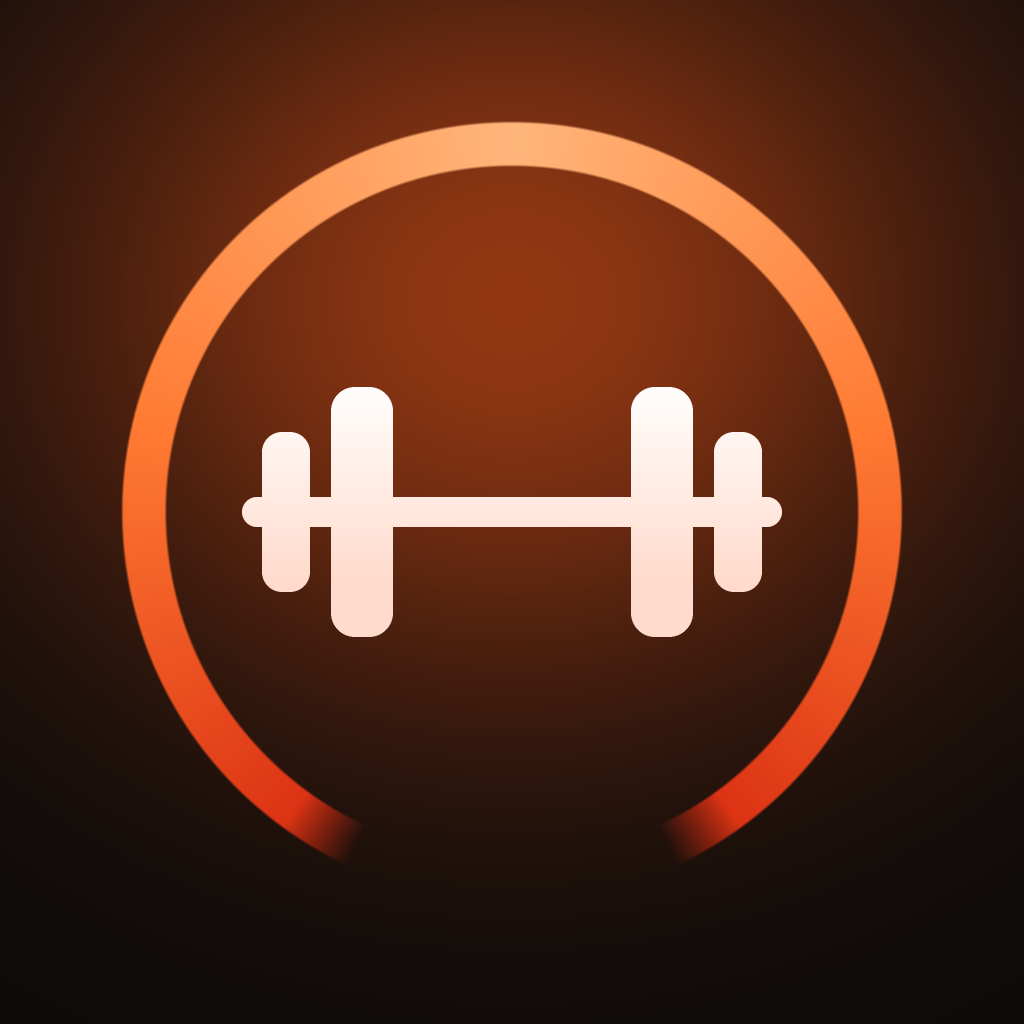
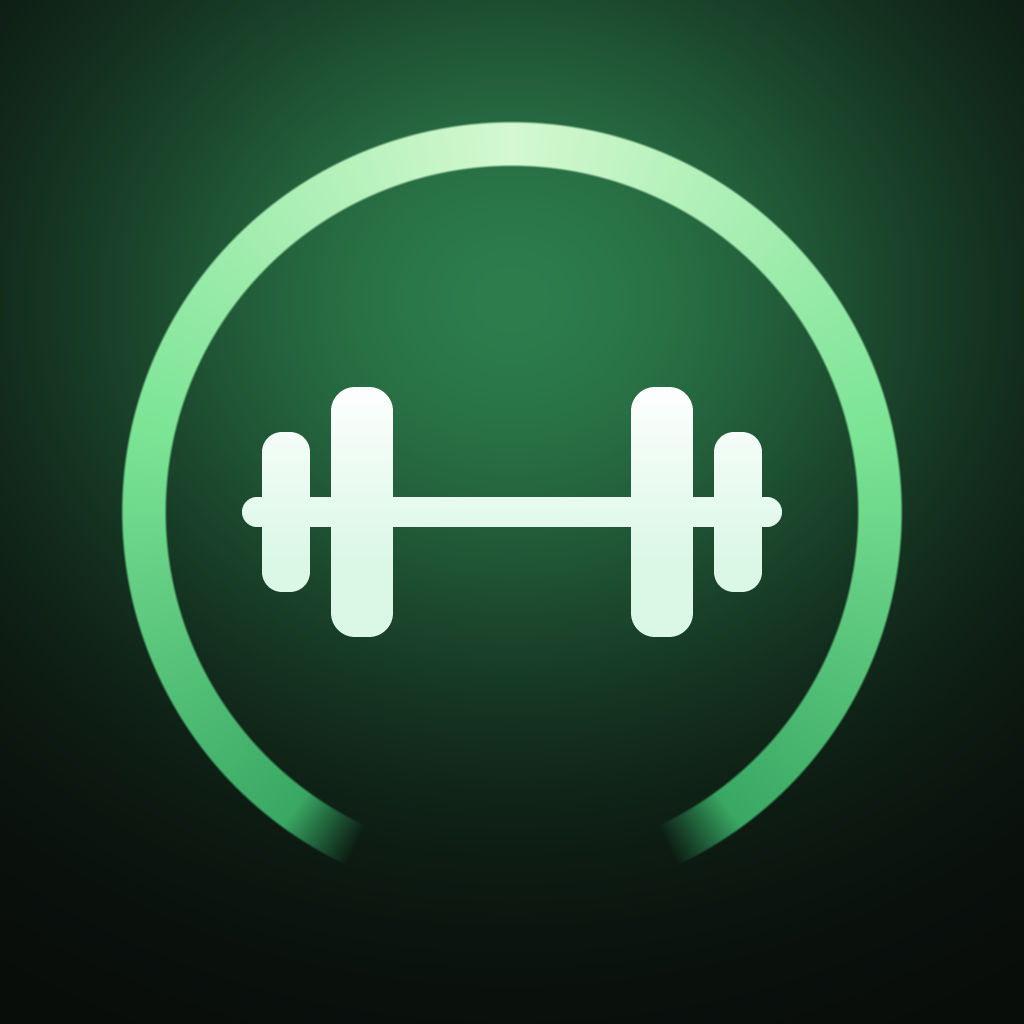
Palette verde chiaro: dalla brace alla linfa
Cambia l'identità visiva dell'app e dell'icona: accento verde chiaro su
fondo scuro al posto dell'arancione. Con il verde il nome "Ember" (brace) non
voleva più dire niente, quindi la direzione si chiama "Linfa" e il componente
dello sfondo diventa linfa-backdrop.

Il testo sull'accento passa da bianco a quasi nero: su un verde chiaro il
bianco non si legge. Il verde di conferma scende a un tono più profondo per
non confondersi con l'accento.

diff --git a/src/components/linfa-backdrop.tsx b/src/components/linfa-backdrop.tsx
@@ -8,7 +8,7 @@ import Svg, {
   Stop,
 } from 'react-native-svg';
 
-import { Ember } from '@/constants/theme';
+import { Linfa } from '@/constants/theme';
 
 /** Punto sulla circonferenza, con 0° in alto e angoli in senso orario. */
 function pointOnCircle(cx: number, cy: number, r: number, deg: number) {
@@ -35,7 +35,7 @@ type Props = {
  * piattaforme): il bagliore è costruito con tracciati sovrapposti a opacità
  * calanti, che su schermo restituiscono lo stesso alone.
  */
-export function EmberBackdrop({ width, height = 470 }: Props) {
+export function LinfaBackdrop({ width, height = 470 }: Props) {
   const cx = width / 2;
   const cy = 218;
   const r = Math.min(width * 0.38, 148);
@@ -44,21 +44,21 @@ export function EmberBackdrop({ width, height = 470 }: Props) {
     <Svg width={width} height={height} pointerEvents="none">
       <Defs>
         <RadialGradient id="hot" cx="50%" cy="50%" r="50%">
-          <Stop offset="0" stopColor={Ember.glowHot} stopOpacity={0.62} />
-          <Stop offset="1" stopColor={Ember.glowHot} stopOpacity={0} />
+          <Stop offset="0" stopColor={Linfa.glowHot} stopOpacity={0.62} />
+          <Stop offset="1" stopColor={Linfa.glowHot} stopOpacity={0} />
         </RadialGradient>
         <RadialGradient id="warm" cx="50%" cy="50%" r="50%">
-          <Stop offset="0" stopColor={Ember.glowWarm} stopOpacity={0.5} />
-          <Stop offset="1" stopColor={Ember.glowWarm} stopOpacity={0} />
+          <Stop offset="0" stopColor={Linfa.glowWarm} stopOpacity={0.5} />
+          <Stop offset="1" stopColor={Linfa.glowWarm} stopOpacity={0} />
         </RadialGradient>
         <RadialGradient id="deep" cx="50%" cy="50%" r="50%">
-          <Stop offset="0" stopColor={Ember.glowDeep} stopOpacity={0.55} />
-          <Stop offset="1" stopColor={Ember.glowDeep} stopOpacity={0} />
+          <Stop offset="0" stopColor={Linfa.glowDeep} stopOpacity={0.55} />
+          <Stop offset="1" stopColor={Linfa.glowDeep} stopOpacity={0} />
         </RadialGradient>
         <LinearGradient id="arc" x1="0" y1="1" x2="1" y2="0">
-          <Stop offset="0" stopColor={Ember.ring[0]} />
-          <Stop offset="0.5" stopColor={Ember.ring[1]} />
-          <Stop offset="1" stopColor={Ember.ring[2]} />
+          <Stop offset="0" stopColor={Linfa.ring[0]} />
+          <Stop offset="0.5" stopColor={Linfa.ring[1]} />
+          <Stop offset="1" stopColor={Linfa.ring[2]} />
         </LinearGradient>
       </Defs>
 
@@ -68,7 +68,7 @@ export function EmberBackdrop({ width, height = 470 }: Props) {
       <Ellipse cx={width * 0.74} cy={44} rx={width * 0.36} ry={68} fill="url(#deep)" />
 
       {/* anello: cerchio spento più arco acceso in basso */}
-      <Circle cx={cx} cy={cy} r={r} stroke="#3A2019" strokeWidth={2} fill="none" />
+      <Circle cx={cx} cy={cy} r={r} stroke="#1E3A28" strokeWidth={2} fill="none" />
       <Path d={arcPath(cx, cy, r, 118, 298)} stroke="url(#arc)" strokeWidth={34} strokeOpacity={0.2} fill="none" strokeLinecap="round" />
       <Path d={arcPath(cx, cy, r, 122, 294)} stroke="url(#arc)" strokeWidth={18} strokeOpacity={0.38} fill="none" strokeLinecap="round" />
       <Path d={arcPath(cx, cy, r, 128, 288)} stroke="url(#arc)" strokeWidth={8} strokeOpacity={0.85} fill="none" strokeLinecap="round" />

diff --git a/src/app/(tabs)/index.tsx b/src/app/(tabs)/index.tsx
@@ -3,12 +3,12 @@ import { router } from 'expo-router';
 import { Pressable, ScrollView, StyleSheet, useWindowDimensions, View } from 'react-native';
 import { SafeAreaView } from 'react-native-safe-area-context';
 
-import { EmberBackdrop } from '@/components/ember-backdrop';
+import { LinfaBackdrop } from '@/components/linfa-backdrop';
 import { ThemedText } from '@/components/themed-text';
 import { Button } from '@/components/ui/button';
 import { Card } from '@/components/ui/card';
 import { EmptyState } from '@/components/ui/feedback';
-import { EmberTile, Ruler } from '@/components/ui/tile';
+import { LinfaTile, Ruler } from '@/components/ui/tile';
 import { BottomTabInset, Colors, MaxContentWidth, Radius, Spacing } from '@/constants/theme';
 import {
   addDays,
@@ -72,7 +72,7 @@ export default function TodayScreen() {
   return (
     <View style={styles.root}>
       <View style={styles.backdrop} pointerEvents="none">
-        <EmberBackdrop width={width} />
+        <LinfaBackdrop width={width} />
       </View>
 
       <SafeAreaView edges={['top']} style={styles.flex}>
@@ -202,12 +202,12 @@ export default function TodayScreen() {
             </Card>
           ) : suggested ? (
             <View style={styles.tiles}>
-              <EmberTile
+              <LinfaTile
                 title={suggested.name}
                 action={`${suggested.exercises.reduce((sum, e) => sum + e.sets, 0)} serie`}
                 onPress={() => startRoutine(suggested.id)}
               />
-              <EmberTile
+              <LinfaTile
                 title="Progressi"
                 action="Dettagli"
                 tone="b"
@@ -298,7 +298,7 @@ const styles = StyleSheet.create({
     width: 52,
     height: 52,
     borderRadius: 26,
-    backgroundColor: '#B4260F',
+    backgroundColor: '#2C7A4F',
     borderWidth: 2,
     borderColor: 'rgba(255,255,255,0.7)',
     alignItems: 'center',
@@ -310,7 +310,7 @@ const styles = StyleSheet.create({
     borderRadius: 22,
     borderWidth: StyleSheet.hairlineWidth,
     borderColor: 'rgba(255,255,255,0.34)',
-    backgroundColor: 'rgba(20,14,12,0.5)',
+    backgroundColor: 'rgba(14,20,16,0.5)',
     alignItems: 'center',
     justifyContent: 'center',
   },
@@ -323,8 +323,8 @@ const styles = StyleSheet.create({
   pill: {
     marginTop: Spacing.two,
     borderWidth: StyleSheet.hairlineWidth,
-    borderColor: 'rgba(255,168,110,0.85)',
-    backgroundColor: 'rgba(12,8,7,0.35)',
+    borderColor: 'rgba(168,240,186,0.85)',
+    backgroundColor: 'rgba(7,14,10,0.35)',
     borderRadius: Radius.pill,
     paddingHorizontal: Spacing.four - 2,
     paddingVertical: Spacing.two + 2,

diff --git a/src/constants/theme.ts b/src/constants/theme.ts
@@ -1,5 +1,5 @@
 /**
- * Direzione visiva "Ember": brace su nero.
+ * Direzione visiva "Linfa": verde chiaro su fondo scuro.
  * L'app è deliberatamente a tema unico scuro — la palette è l'identità,
  * non una preferenza di sistema, quindi non esiste una variante chiara.
  */
@@ -10,33 +10,33 @@ import { Platform } from 'react-native';
 
 export const Colors = {
   text: '#FFFFFF',
-  textSecondary: '#8B8583',
-  textMuted: '#6F6967',
-  background: '#0B0A0A',
-  backgroundElement: '#1A1819',
-  backgroundSelected: '#262223',
-  border: '#232021',
-  accent: '#FF6B2C',
-  accentSoft: '#2A1610',
-  onAccent: '#FFFFFF',
-  success: '#3DD68C',
-  successSoft: '#12301F',
+  textSecondary: '#8E9A90',
+  textMuted: '#6D7971',
+  background: '#080B09',
+  backgroundElement: '#141A16',
+  backgroundSelected: '#1E2721',
+  border: '#1F2821',
+  accent: '#7BE495',
+  accentSoft: '#10251A',
+  onAccent: '#06160D',
+  success: '#34C79A',
+  successSoft: '#0F2A24',
   danger: '#FF6369',
   dangerSoft: '#3A1B1D',
-  track: '#262223',
+  track: '#1E2721',
 } as const;
 
 export type ThemeColor = keyof typeof Colors;
 export type Theme = typeof Colors;
 
-/** Sfumature della brace, usate da tessere, anello e bagliore. */
-export const Ember = {
-  tileA: ['#E2481B', '#8E2A18'] as const,
-  tileB: ['#C63A16', '#6E2314'] as const,
-  ring: ['#FFB57A', '#FF7A32', '#D6280F'] as const,
-  glowHot: '#FF5C1A',
-  glowWarm: '#FFB058',
-  glowDeep: '#D62010',
+/** Sfumature del verde, usate da tessere, anello e bagliore. */
+export const Linfa = {
+  tileA: ['#5FD68A', '#2C7A4F'] as const,
+  tileB: ['#49C27A', '#1F5F3D'] as const,
+  ring: ['#D4F8D0', '#7BE495', '#2E9E5B'] as const,
+  glowHot: '#49D983',
+  glowWarm: '#B6F3C0',
+  glowDeep: '#1C7A48',
 } as const;
 
 export const Fonts = Platform.select({

diff --git a/src/components/ui/tile.tsx b/src/components/ui/tile.tsx
@@ -3,11 +3,11 @@ import { LinearGradient } from 'expo-linear-gradient';
 import { Pressable, StyleSheet, View } from 'react-native';
 
 import { ThemedText } from '@/components/themed-text';
-import { Colors, Ember, Radius, Spacing } from '@/constants/theme';
+import { Colors, Linfa, Radius, Spacing } from '@/constants/theme';
 import { useHaptics } from '@/hooks/use-haptics';
 
-/** Tessera in gradiente brace, con etichetta a pillola bianca in basso. */
-export function EmberTile({
+/** Tessera in gradiente verde, con etichetta a pillola bianca in basso. */
+export function LinfaTile({
   title,
   action,
   tone = 'a',
@@ -19,7 +19,7 @@ export function EmberTile({
   onPress: () => void;
 }) {
   const haptics = useHaptics();
-  const colors = tone === 'a' ? Ember.tileA : Ember.tileB;
+  const colors = tone === 'a' ? Linfa.tileA : Linfa.tileB;
 
   return (
     <Pressable
@@ -98,12 +98,12 @@ const styles = StyleSheet.create({
     paddingRight: Spacing.one,
     paddingVertical: Spacing.one + 1,
   },
-  chipText: { color: '#1A0F0A' },
+  chipText: { color: '#0A1A10' },
   chipIcon: {
     width: 24,
     height: 24,
     borderRadius: 12,
-    backgroundColor: '#1A0F0A',
+    backgroundColor: '#0A1A10',
     alignItems: 'center',
     justifyContent: 'center',
   },
@@ -120,6 +120,6 @@ const styles = StyleSheet.create({
     backgroundColor: Colors.textMuted,
     borderRadius: 1,
   },
-  tickMajor: { backgroundColor: '#7A5B4C' },
-  tickCenter: { width: 1.5, backgroundColor: '#FFC79E' },
+  tickMajor: { backgroundColor: '#4F7A63' },
+  tickCenter: { width: 1.5, backgroundColor: '#C7FFD9' },
 });

diff --git a/src/components/ui/dialog.tsx b/src/components/ui/dialog.tsx
@@ -5,7 +5,7 @@
  * installata sull'iPhone le conferme native non comparirebbero e azioni come
  * "termina allenamento" resterebbero senza risposta. Questi dialoghi sono
  * normali viste, quindi identiche su iOS, Android e web, e seguono la palette
- * Ember invece dell'aspetto di sistema.
+ * Linfa invece dell'aspetto di sistema.
  */
 
 import { createContext, useCallback, useContext, useMemo, useRef, useState } from 'react';

diff --git a/src/app/(tabs)/_layout.tsx b/src/app/(tabs)/_layout.tsx
@@ -17,7 +17,7 @@ export default function TabsLayout() {
         tabBarActiveTintColor: Colors.accent,
         tabBarInactiveTintColor: Colors.textMuted,
         tabBarStyle: {
-          backgroundColor: '#131111',
+          backgroundColor: '#121613',
           borderTopColor: Colors.border,
           borderTopWidth: StyleSheet.hairlineWidth,
           height: 49 + insets.bottom,

diff --git a/README.md b/README.md
@@ -89,8 +89,8 @@ libero) e perché, come sono stati scelti serie, ripetizioni e recuperi, cosa è
 stato escluso per via delle limitazioni dichiarate. Le schede restano
 modificabili come tutte le altre.
 
-**Oggi** — il volume della settimana come numero protagonista dentro l'anello di
-brace, con il confronto sulla settimana precedente; sotto, avanzamento verso
+**Oggi** — il volume della settimana come numero protagonista dentro l'anello
+luminoso, con il confronto sulla settimana precedente; sotto, avanzamento verso
 l'obiettivo con il calendario dei sette giorni, scheda consigliata (la meno
 recente, così la rotazione push/pull/legs viene da sé), avvio di un allenamento
 libero e ultimi allenamenti.
@@ -122,17 +122,22 @@ progressione, che scrive anche perché.
 
 ## Direzione visiva
 
-L'app segue la direzione **Ember**: brace su nero, un unico tema scuro per
-scelta di identità (`userInterfaceStyle: "dark"`), numero del volume settimanale
-come protagonista dentro un anello incandescente, tessere in gradiente arancione.
+L'app segue la direzione **Linfa**: verde chiaro su fondo scuro, un unico tema
+per scelta di identità (`userInterfaceStyle: "dark"`), numero del volume
+settimanale come protagonista dentro un anello luminoso, tessere in gradiente
+verde. Sul verde il testo diventa scuro (`onAccent`), non bianco: è l'unico modo
+di restare leggibili su un colore chiaro.
 
-Il bagliore e l'anello sono disegnati in `src/components/ember-backdrop.tsx` con
+Il bagliore e l'anello sono disegnati in `src/components/linfa-backdrop.tsx` con
 `react-native-svg`: niente filtri di sfocatura, il diffuso nasce da archi
 sovrapposti a opacità calanti — resa identica su iOS e Android e molto più
 leggera da comporre.
 
-Le sei direzioni valutate prima di scegliere stanno in
-[`design/direzioni.html`](design/direzioni.html), apribile in un browser.
+L'icona nasce dalla stessa palette e si rigenera con `npm run icona`.
+
+Le sei direzioni valutate all'inizio stanno in
+[`design/direzioni.html`](design/direzioni.html), apribile in un browser: la
+pagina racconta la scelta di allora, quando la palette era la brace arancione.
 
 ## Struttura del progetto
 
@@ -154,7 +159,7 @@ src/
     programma.tsx         il programma generato e le sue motivazioni
     impostazioni.tsx
   components/             UI riutilizzabile (Card, Button, Chip, grafici…)
-  constants/theme.ts      palette Ember, spaziature, raggi
+  constants/theme.ts      palette Linfa, spaziature, raggi
   data/exercises.ts       catalogo di base e schede di esempio
   hooks/                  tema e feedback aptico
   lib/                    formattazione italiana, calcoli (volume, 1RM, streak),
@@ -167,7 +172,7 @@ scripts/
   build-web.mjs           costruisce la web app installabile
   serve-dist.mjs          la prova in locale come se fosse online
   deploy-pages.mjs        la pubblica su GitHub Pages
-  genera-icona.mjs        disegna l'icona dell'app (brace, anello, bilanciere)
+  genera-icona.mjs        disegna l'icona dell'app (anello verde, bilanciere)
   prova-programmi.mjs     genera i programmi di diciannove profili e li controlla
   prova-progressione.mjs  verifica le decisioni su carichi e varianti
 ```
